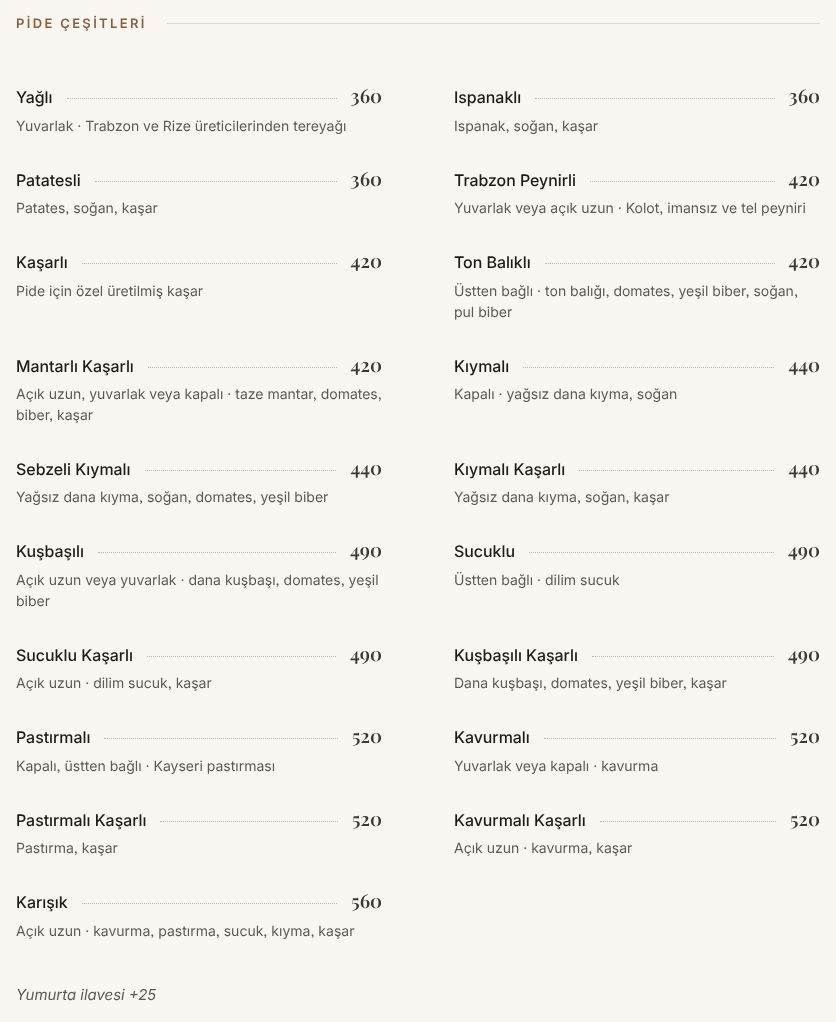
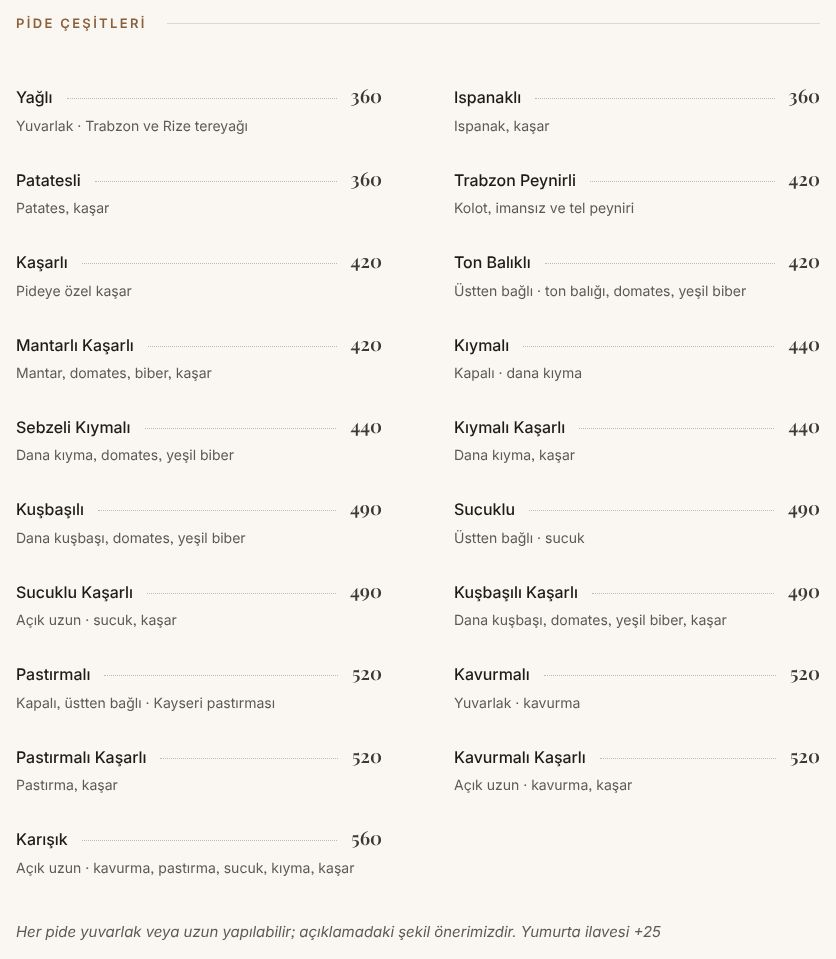
Menü açıklamaları: önerilen şekil + ana malzeme, şekil notu
Can'ın isteğiyle soğan, pul biber, "yağsız" gibi detaylar çıkarıldı;
şekil yalnızca notta önerilen bir şekil varsa yazılıyor. Bölüm notuna
"her pide yuvarlak veya uzun yapılabilir" eklendi.

Claude-Session: https://claude.ai/code/session_012SBAFvuGk65aZ6M1GW2Req

diff --git a/menu.html b/menu.html
@@ -93,12 +93,12 @@
         {
           "@type": "MenuSection",
           "name": "Pide Çeşitleri",
-          "description": "Yumurta ilavesi +25",
+          "description": "Her pide yuvarlak veya uzun yapılabilir; açıklamadaki şekil önerimizdir. Yumurta ilavesi +25",
           "hasMenuItem": [
             {
               "@type": "MenuItem",
               "name": "Yağlı",
-              "description": "Yuvarlak · Trabzon ve Rize üreticilerinden tereyağı",
+              "description": "Yuvarlak · Trabzon ve Rize tereyağı",
               "offers": {
                 "@type": "Offer",
                 "price": "360",
@@ -108,7 +108,7 @@
             {
               "@type": "MenuItem",
               "name": "Ispanaklı",
-              "description": "Ispanak, soğan, kaşar",
+              "description": "Ispanak, kaşar",
               "offers": {
                 "@type": "Offer",
                 "price": "360",
@@ -118,7 +118,7 @@
             {
               "@type": "MenuItem",
               "name": "Patatesli",
-              "description": "Patates, soğan, kaşar",
+              "description": "Patates, kaşar",
               "offers": {
                 "@type": "Offer",
                 "price": "360",
@@ -128,7 +128,7 @@
             {
               "@type": "MenuItem",
               "name": "Trabzon Peynirli",
-              "description": "Yuvarlak veya açık uzun · Kolot, imansız ve tel peyniri",
+              "description": "Kolot, imansız ve tel peyniri",
               "offers": {
                 "@type": "Offer",
                 "price": "420",
@@ -138,7 +138,7 @@
             {
               "@type": "MenuItem",
               "name": "Kaşarlı",
-              "description": "Pide için özel üretilmiş kaşar",
+              "description": "Pideye özel kaşar",
               "offers": {
                 "@type": "Offer",
                 "price": "420",
@@ -148,7 +148,7 @@
             {
               "@type": "MenuItem",
               "name": "Ton Balıklı",
-              "description": "Üstten bağlı · ton balığı, domates, yeşil biber, soğan, pul biber",
+              "description": "Üstten bağlı · ton balığı, domates, yeşil biber",
               "offers": {
                 "@type": "Offer",
                 "price": "420",
@@ -158,7 +158,7 @@
             {
               "@type": "MenuItem",
               "name": "Mantarlı Kaşarlı",
-              "description": "Açık uzun, yuvarlak veya kapalı · taze mantar, domates, biber, kaşar",
+              "description": "Mantar, domates, biber, kaşar",
               "offers": {
                 "@type": "Offer",
                 "price": "420",
@@ -168,7 +168,7 @@
             {
               "@type": "MenuItem",
               "name": "Kıymalı",
-              "description": "Kapalı · yağsız dana kıyma, soğan",
+              "description": "Kapalı · dana kıyma",
               "offers": {
                 "@type": "Offer",
                 "price": "440",
@@ -178,7 +178,7 @@
             {
               "@type": "MenuItem",
               "name": "Sebzeli Kıymalı",
-              "description": "Yağsız dana kıyma, soğan, domates, yeşil biber",
+              "description": "Dana kıyma, domates, yeşil biber",
               "offers": {
                 "@type": "Offer",
                 "price": "440",
@@ -188,7 +188,7 @@
             {
               "@type": "MenuItem",
               "name": "Kıymalı Kaşarlı",
-              "description": "Yağsız dana kıyma, soğan, kaşar",
+              "description": "Dana kıyma, kaşar",
               "offers": {
                 "@type": "Offer",
                 "price": "440",
@@ -198,7 +198,7 @@
             {
               "@type": "MenuItem",
               "name": "Kuşbaşılı",
-              "description": "Açık uzun veya yuvarlak · dana kuşbaşı, domates, yeşil biber",
+              "description": "Dana kuşbaşı, domates, yeşil biber",
               "offers": {
                 "@type": "Offer",
                 "price": "490",
@@ -208,7 +208,7 @@
             {
               "@type": "MenuItem",
               "name": "Sucuklu",
-              "description": "Üstten bağlı · dilim sucuk",
+              "description": "Üstten bağlı · sucuk",
               "offers": {
                 "@type": "Offer",
                 "price": "490",
@@ -218,7 +218,7 @@
             {
               "@type": "MenuItem",
               "name": "Sucuklu Kaşarlı",
-              "description": "Açık uzun · dilim sucuk, kaşar",
+              "description": "Açık uzun · sucuk, kaşar",
               "offers": {
                 "@type": "Offer",
                 "price": "490",
@@ -248,7 +248,7 @@
             {
               "@type": "MenuItem",
               "name": "Kavurmalı",
-              "description": "Yuvarlak veya kapalı · kavurma",
+              "description": "Yuvarlak · kavurma",
               "offers": {
                 "@type": "Offer",
                 "price": "520",
@@ -361,79 +361,79 @@
         <span class="menu-item__name">Yağlı</span>
         <span class="menu-item__dots" aria-hidden="true"></span>
         <span class="menu-item__price">360<span class="visually-hidden"> TL</span></span>
-        <span class="menu-item__desc">Yuvarlak · Trabzon ve Rize üreticilerinden tereyağı</span>
+        <span class="menu-item__desc">Yuvarlak · Trabzon ve Rize tereyağı</span>
       </li>
       <li class="menu-item menu-item--desc">
         <span class="menu-item__name">Ispanaklı</span>
         <span class="menu-item__dots" aria-hidden="true"></span>
         <span class="menu-item__price">360<span class="visually-hidden"> TL</span></span>
-        <span class="menu-item__desc">Ispanak, soğan, kaşar</span>
+        <span class="menu-item__desc">Ispanak, kaşar</span>
       </li>
       <li class="menu-item menu-item--desc">
         <span class="menu-item__name">Patatesli</span>
         <span class="menu-item__dots" aria-hidden="true"></span>
         <span class="menu-item__price">360<span class="visually-hidden"> TL</span></span>
-        <span class="menu-item__desc">Patates, soğan, kaşar</span>
+        <span class="menu-item__desc">Patates, kaşar</span>
       </li>
       <li class="menu-item menu-item--desc">
         <span class="menu-item__name">Trabzon Peynirli</span>
         <span class="menu-item__dots" aria-hidden="true"></span>
         <span class="menu-item__price">420<span class="visually-hidden"> TL</span></span>
-        <span class="menu-item__desc">Yuvarlak veya açık uzun · Kolot, imansız ve tel peyniri</span>
+        <span class="menu-item__desc">Kolot, imansız ve tel peyniri</span>
       </li>
       <li class="menu-item menu-item--desc">
         <span class="menu-item__name">Kaşarlı</span>
         <span class="menu-item__dots" aria-hidden="true"></span>
         <span class="menu-item__price">420<span class="visually-hidden"> TL</span></span>
-        <span class="menu-item__desc">Pide için özel üretilmiş kaşar</span>
+        <span class="menu-item__desc">Pideye özel kaşar</span>
       </li>
       <li class="menu-item menu-item--desc">
         <span class="menu-item__name">Ton Balıklı</span>
         <span class="menu-item__dots" aria-hidden="true"></span>
         <span class="menu-item__price">420<span class="visually-hidden"> TL</span></span>
-        <span class="menu-item__desc">Üstten bağlı · ton balığı, domates, yeşil biber, soğan, pul biber</span>
+        <span class="menu-item__desc">Üstten bağlı · ton balığı, domates, yeşil biber</span>
       </li>
       <li class="menu-item menu-item--desc">
         <span class="menu-item__name">Mantarlı Kaşarlı</span>
         <span class="menu-item__dots" aria-hidden="true"></span>
         <span class="menu-item__price">420<span class="visually-hidden"> TL</span></span>
-        <span class="menu-item__desc">Açık uzun, yuvarlak veya kapalı · taze mantar, domates, biber, kaşar</span>
+        <span class="menu-item__desc">Mantar, domates, biber, kaşar</span>
       </li>
       <li class="menu-item menu-item--desc">
         <span class="menu-item__name">Kıymalı</span>
         <span class="menu-item__dots" aria-hidden="true"></span>
         <span class="menu-item__price">440<span class="visually-hidden"> TL</span></span>
-        <span class="menu-item__desc">Kapalı · yağsız dana kıyma, soğan</span>
+        <span class="menu-item__desc">Kapalı · dana kıyma</span>
       </li>
       <li class="menu-item menu-item--desc">
         <span class="menu-item__name">Sebzeli Kıymalı</span>
         <span class="menu-item__dots" aria-hidden="true"></span>
         <span class="menu-item__price">440<span class="visually-hidden"> TL</span></span>
-        <span class="menu-item__desc">Yağsız dana kıyma, soğan, domates, yeşil biber</span>
+        <span class="menu-item__desc">Dana kıyma, domates, yeşil biber</span>
       </li>
       <li class="menu-item menu-item--desc">
         <span class="menu-item__name">Kıymalı Kaşarlı</span>
         <span class="menu-item__dots" aria-hidden="true"></span>
         <span class="menu-item__price">440<span class="visually-hidden"> TL</span></span>
-        <span class="menu-item__desc">Yağsız dana kıyma, soğan, kaşar</span>
+        <span class="menu-item__desc">Dana kıyma, kaşar</span>
       </li>
       <li class="menu-item menu-item--desc">
         <span class="menu-item__name">Kuşbaşılı</span>
         <span class="menu-item__dots" aria-hidden="true"></span>
         <span class="menu-item__price">490<span class="visually-hidden"> TL</span></span>
-        <span class="menu-item__desc">Açık uzun veya yuvarlak · dana kuşbaşı, domates, yeşil biber</span>
+        <span class="menu-item__desc">Dana kuşbaşı, domates, yeşil biber</span>
       </li>
       <li class="menu-item menu-item--desc">
         <span class="menu-item__name">Sucuklu</span>
         <span class="menu-item__dots" aria-hidden="true"></span>
         <span class="menu-item__price">490<span class="visually-hidden"> TL</span></span>
-        <span class="menu-item__desc">Üstten bağlı · dilim sucuk</span>
+        <span class="menu-item__desc">Üstten bağlı · sucuk</span>
       </li>
       <li class="menu-item menu-item--desc">
         <span class="menu-item__name">Sucuklu Kaşarlı</span>
         <span class="menu-item__dots" aria-hidden="true"></span>
         <span class="menu-item__price">490<span class="visually-hidden"> TL</span></span>
-        <span class="menu-item__desc">Açık uzun · dilim sucuk, kaşar</span>
+        <span class="menu-item__desc">Açık uzun · sucuk, kaşar</span>
       </li>
       <li class="menu-item menu-item--desc">
         <span class="menu-item__name">Kuşbaşılı Kaşarlı</span>
@@ -451,7 +451,7 @@
         <span class="menu-item__name">Kavurmalı</span>
         <span class="menu-item__dots" aria-hidden="true"></span>
         <span class="menu-item__price">520<span class="visually-hidden"> TL</span></span>
-        <span class="menu-item__desc">Yuvarlak veya kapalı · kavurma</span>
+        <span class="menu-item__desc">Yuvarlak · kavurma</span>
       </li>
       <li class="menu-item menu-item--desc">
         <span class="menu-item__name">Pastırmalı Kaşarlı</span>
@@ -472,7 +472,7 @@
         <span class="menu-item__desc">Açık uzun · kavurma, pastırma, sucuk, kıyma, kaşar</span>
       </li>
     </ul>
-    <p class="menu-section__note">Yumurta ilavesi +25</p>
+    <p class="menu-section__note">Her pide yuvarlak veya uzun yapılabilir; açıklamadaki şekil önerimizdir. Yumurta ilavesi +25</p>
   </section>
   <section class="menu-section">
     <div class="menu-section__head">
